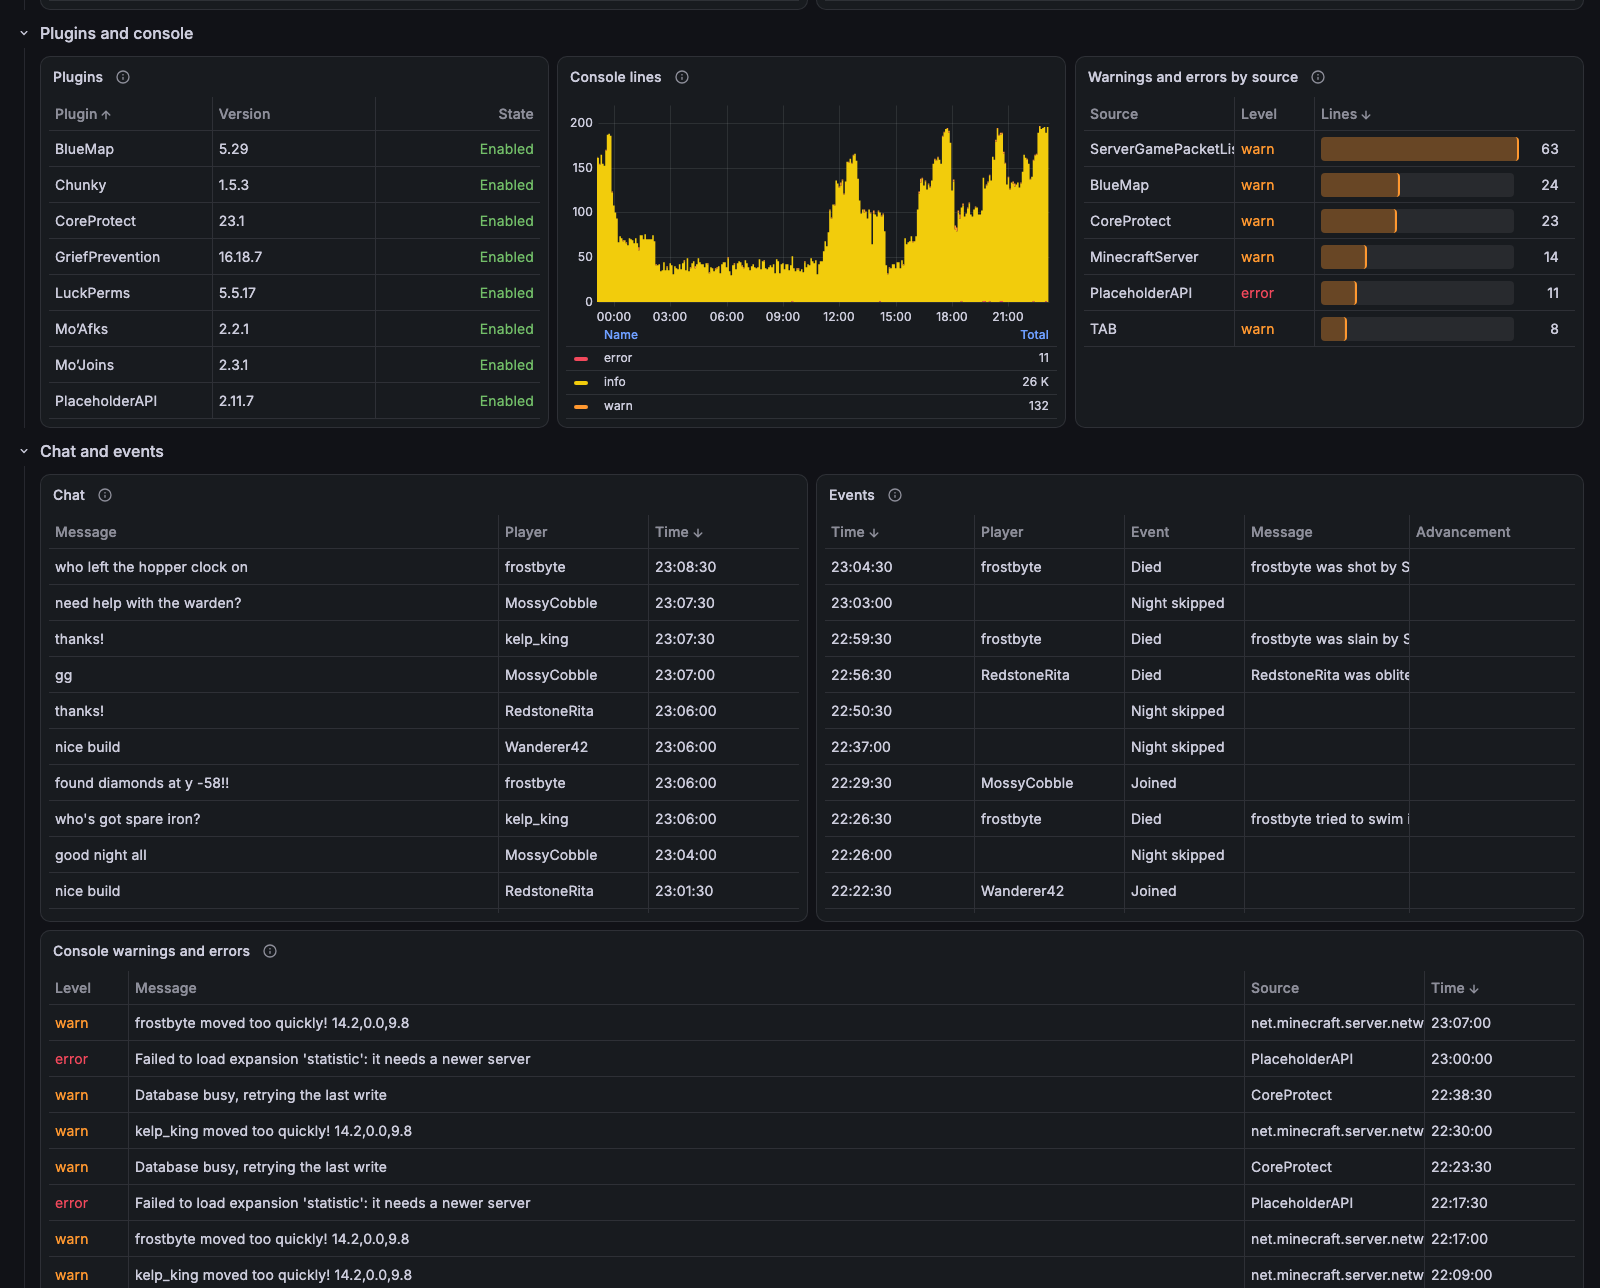
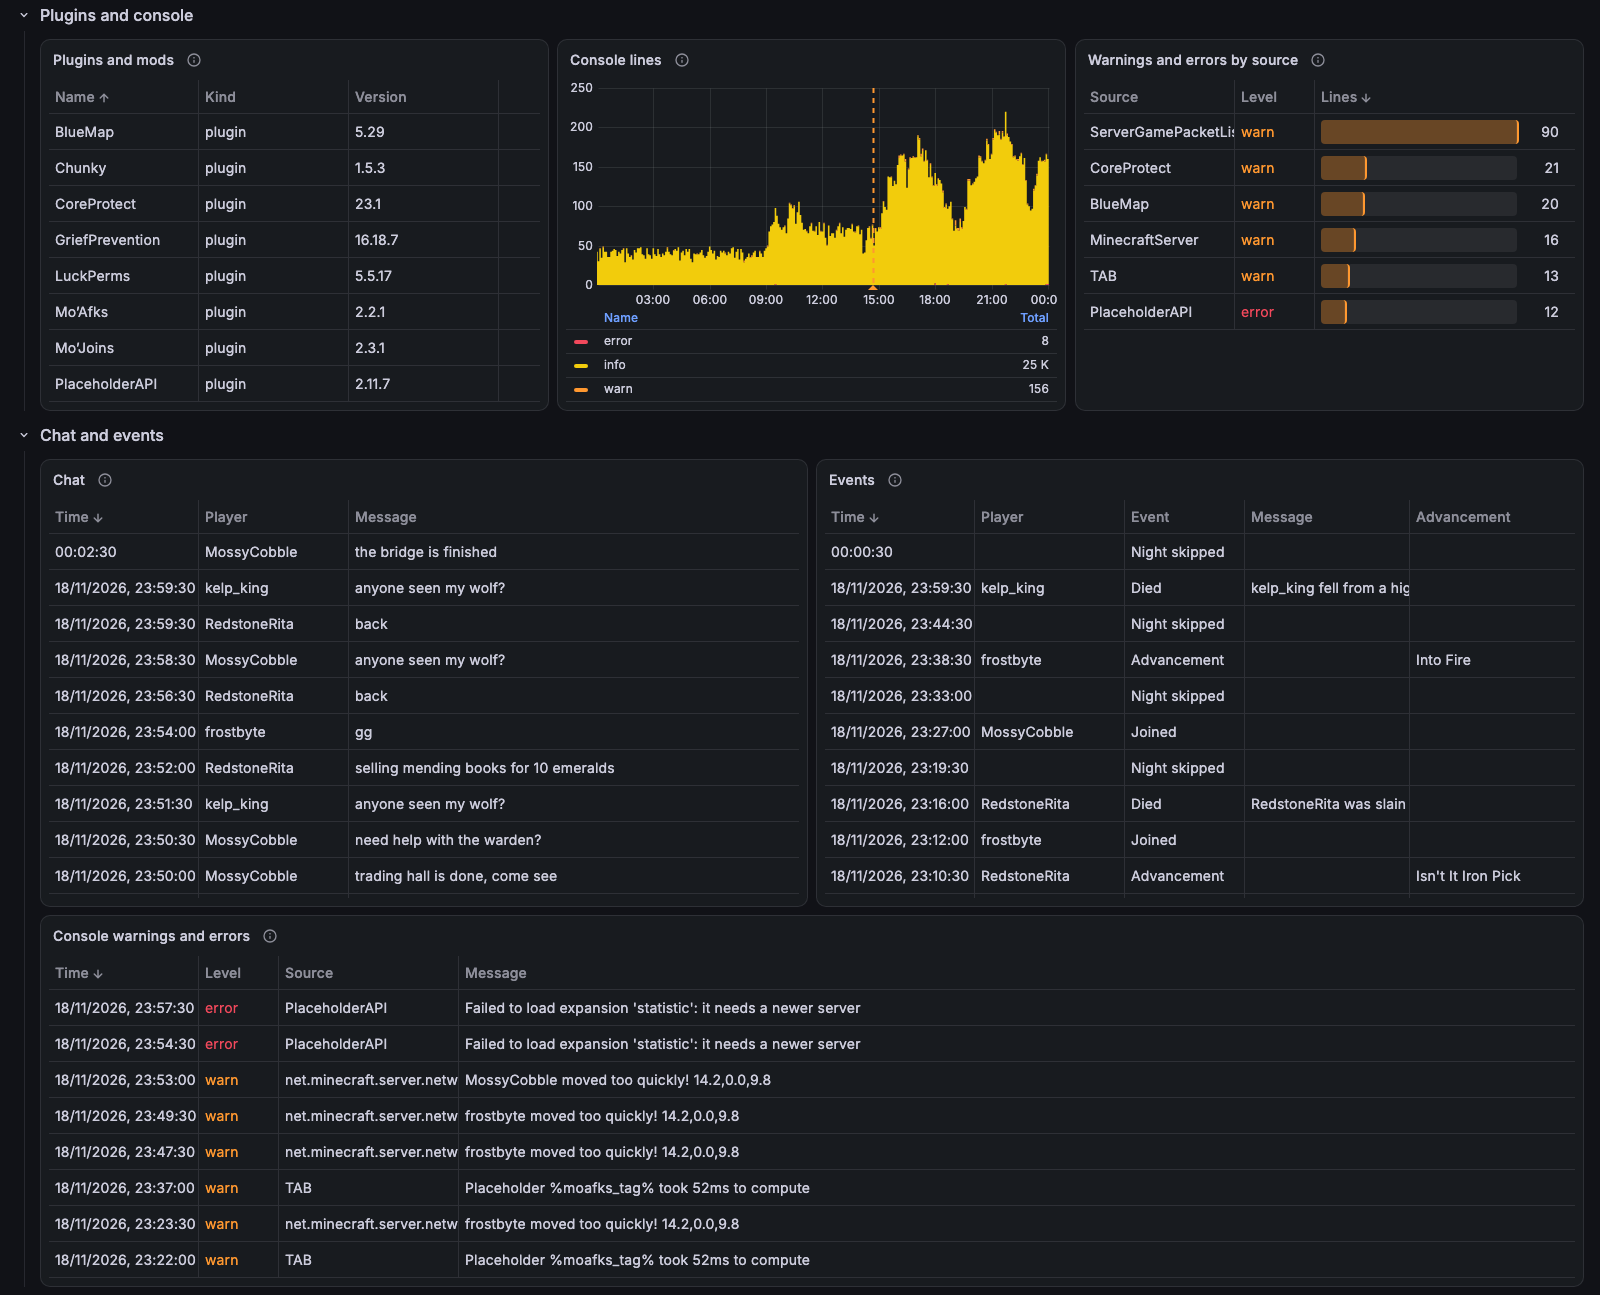
Describe 1.6.0

diff --git a/README.RU.md b/README.RU.md
@@ -16,11 +16,11 @@
 
 ## Что внутри
 
-- 🟢 **Сервер одним взглядом:** работает ли он или стоит на паузе, версия, аптайм, TPS, время тика, куча.
-- ⏱ **Производительность:** TPS, время тика по перцентилям рядом с линией 50 мс, за которой сервер начинает лагать, куча, CPU, сборка мусора.
+- 🟢 **Сервер одним взглядом:** работает ли он, стоит ли на паузе или заморожен, версия, аптайм, TPS, время тика, куча.
+- ⏱ **Производительность:** TPS, время тика по перцентилям рядом с бюджетом тика, за которым сервер начинает лагать, куча, CPU, сборка мусора.
 - 🌍 **Миры:** загруженные чанки, сущности, блочные сущности, самые частые сущности, погода на шкале времени, номер дня и время суток.
-- 👥 **Игроки:** кто онлайн, где стоит, его здоровье, сытость, уровень, пинг и время в игре; кто больше всех играл за выбранный период; пожизненная статистика каждого, от смертей до алмазов.
-- 💀 **Активность:** входы, смерти и достижения во времени, смерти по причинам и убийцам, чат по игрокам, новые игроки и события других плагинов.
+- 👥 **Игроки:** кто онлайн, где стоит, его здоровье, сытость, уровень, пинг и время в игре; кто больше всех играл за выбранный период; пожизненная статистика каждого, от смертей до алмазов; чат по игрокам и новые игроки.
+- 💀 **Активность:** входы, смерти и достижения во времени, смерти по причинам и убийцам и события других плагинов.
 - 💬 **Чат, события и предупреждения консоли** таблицами, прямо из WorldAPI.
 - 🔐 **Больше с токеном WorldAPI:** нагрузка и диск машины, что лагает в каждом мире вплоть до самых загруженных чанков, плагины с версиями и консоль.
 - 🎮 **Ваш мир в одиночной игре:** для него дашборд прячет игроков, консоль и чат сервера и показывает ваше время в игре, уровень, смерти, алмазы, здоровье с сытостью и моды.

diff --git a/README.md b/README.md
@@ -16,11 +16,11 @@
 
 ## What you get
 
-- 🟢 **Server at a glance:** up, down, or paused, version, uptime, TPS, tick time, heap.
-- ⏱ **Performance:** TPS, tick times by percentile against the 50 ms line where the server starts to lag, heap, CPU, garbage collection.
+- 🟢 **Server at a glance:** up, down, paused, or frozen, version, uptime, TPS, tick time, heap.
+- ⏱ **Performance:** TPS, tick times by percentile against the tick budget, past which the server starts to lag, heap, CPU, garbage collection.
 - 🌍 **Worlds:** loaded chunks, entities, block entities, the most common entities, a weather timeline, the day and the time of day.
-- 👥 **Players:** who’s online, where they stand, their health, food, level, ping, and time played; who played most in the time range; every player’s lifetime statistics, from deaths to diamonds.
-- 💀 **Activity:** joins, deaths, and advancements over time, deaths by cause and killer, chat by player, new players, and other plugins’ events.
+- 👥 **Players:** who’s online, where they stand, their health, food, level, ping, and time played; who played most in the time range; every player’s lifetime statistics, from deaths to diamonds; chat by player and new players.
+- 💀 **Activity:** joins, deaths, and advancements over time, deaths by cause and killer, and other plugins’ events.
 - 💬 **Chat, events, and console warnings** as tables, read straight from WorldAPI.
 - 🔐 **More with a WorldAPI token:** the host’s load and disk, what lags in each world down to the busiest chunks, plugins with their versions, and the console.
 - 🎮 **Your world, alone:** for a singleplayer world it hides the server’s players, console, and chat, and shows your play time, level, deaths, diamonds, health and food, and mods.

diff --git a/CHANGELOG.md b/CHANGELOG.md
@@ -1,5 +1,15 @@
 # Changelog
 
+## 1.6.0
+
+- ⏱ **TPS and tick time follow `/tick rate`.** The graphs draw the target rate and the tick budget as dashed lines instead of a fixed 20 TPS and 50 ms, and the TPS and “Tick time p95” tiles color by their share of the target.
+- 🧊 **Status knows “Frozen”** while `/tick freeze` stops the ticks, and reads “Down” when Prometheus has nothing fresh from the exporter, instead of “No data”.
+- 🐳 **Container limits.** In a container, “Load average” and “Host memory” draw its CPU and memory limits too.
+- 🌍 **Online over time** stacks the players by the world they're in.
+- ⚔ **Every player** counts players killed and hearts dealt.
+- 👥 “Chat by player” and “New players” moved from Activity to Players, which a singleplayer world hides.
+- 🐛 “Plugins and mods” and “Mods” sort by name again, “Chat” and “Console warnings and errors” put the time first, “Failed requests” fills its bars and sums them in the legend, and the restart mark shows once per restart.
+
 ## 1.5.1
 
 Needs Grafana 13: the dashboard is now a v2 dashboard, the only kind whose rows can hide by a condition.
